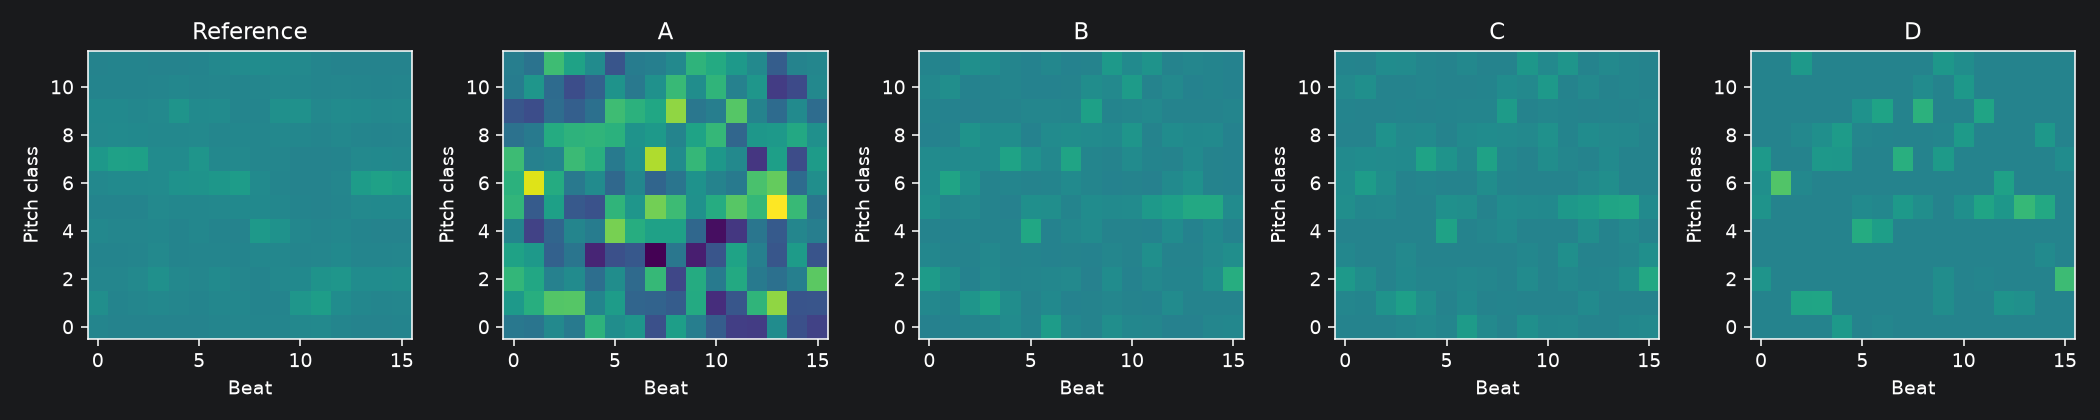
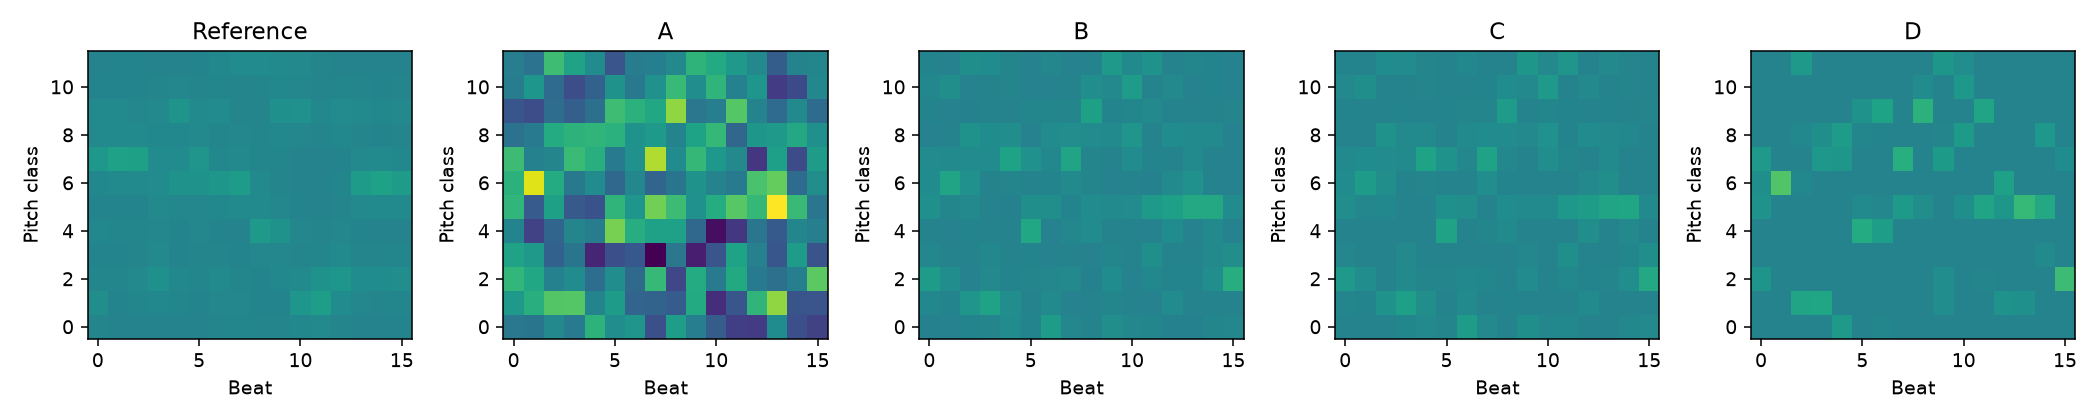
Run chroma experiment and record task B results

diff --git a/src/model.py b/src/model.py
@@ -1,4 +1,4 @@
-"""Member B: Problem 1 MLP/linear flow matching adapted from 3 to 192 dimensions."""
+"""Flow matching for 16-beat chroma sequences."""
 import torch
 from torch import nn
 from .constraints import correct_step, project_simplex

diff --git a/PERSON_B_HANDOFF.md b/PERSON_B_HANDOFF.md
@@ -1,0 +1,110 @@
+# Task B notes
+
+The model was trained on the arrays prepared in task A. The preprocessing code
+and data files are unchanged.
+
+## Files
+
+Task B covers:
+
+- `src/model.py`: the 192-dimensional velocity network, Flow Matching training,
+  and Euler sampling.
+- Training and A/B/C/D sampling in `problem2.ipynb`.
+- The local model checkpoint and generated sample archive.
+
+Inputs:
+
+- `data/problem2/processed/train.npy`: `(1129, 16, 12)`, `float32`.
+- `data/problem2/processed/test.npy`: `(297, 16, 12)`, `float32`.
+- `data/problem2/processed/manifest.json` and the source records from task A.
+- `src/constraints.py` and `src/evaluation.py`, which are owned by Person C.
+
+`scripts/check_setup.py` checked the hashes in the manifest, the official split,
+array shapes, finite values, non-negativity, and per-beat sums. Training uses
+these cached arrays, so there is no need to download or process audio again.
+
+## Training
+
+Each `(16, 12)` sample is flattened to 192 values. The network takes those values
+and time `t` as input. It has three hidden layers of 128 units with SiLU
+activations and predicts a 192-dimensional velocity.
+
+For every training step:
+
+1. Draw `x0 ~ N(0, I)` and a real sample `x1`.
+2. Draw `t ~ Uniform(0, 1)`.
+3. Form the linear interpolation `xt = (1 - t) * x0 + t * x1`.
+4. Train the network to predict the target velocity `x1 - x0` with mean squared
+   error.
+
+The run used seed 42, 3000 steps, batch size 256, Adam with learning rate
+`1e-3`, and CPU execution. The first loss was 1.02014 and the final loss was
+0.55413; the mean of the first 100 losses was 0.94815 and the mean of the last
+100 was 0.57230. Repeating training with the same configuration reproduced the
+saved checkpoint exactly.
+
+## Sampling
+
+All four methods use the same trained model, the same 297 initial Gaussian
+noise tensors, and 100 Euler steps. The initial noise is not projected.
+
+- A: Euler update only; no constraint correction.
+- B: after every Euler update, apply
+  `x <- x + 0.1 * (project_simplex(x) - x)`.
+- C: after every Euler update, fully project each 12-dimensional beat onto the
+  probability simplex.
+- D: run the same unconstrained trajectory as A, then project only the final
+  sample.
+
+The saved D samples equal `project_simplex(A)` within
+`1e-6`. C and D both have zero negative mass and 100% feasible beats and
+sequences within the `1e-5` evaluation tolerance.
+
+## Saved results
+
+- `models/problem2/flow.pt`: model state and training/sampling configuration.
+- `results/problem2/samples.npz`: reference data, reference indices, shared
+  initial noise, and A/B/C/D arrays. Every generated array has shape
+  `(297, 16, 12)` and contains only finite values.
+- `results/problem2/training.png`: Flow Matching loss curve.
+- `problem2.ipynb`: all cells ran with `SMOKE=False`; its final output is
+  `REAL_EXPERIMENT_OK`.
+
+Git ignores the checkpoint and `samples.npz`. Both files are saved locally.
+
+## Checks (2026-10-12)
+
+```text
+python scripts/check_setup.py
+    CHECKOUT_READY: data and model interfaces work without raw audio
+
+python -m unittest discover -s tests -v
+    Ran 4 tests - OK
+
+jupyter execute --inplace --timeout=-1 problem2.ipynb
+    completed successfully with REAL_EXPERIMENT_OK
+```
+
+The saved files were also checked:
+
+- All `reference`, `noise`, and A/B/C/D arrays are finite.
+- C and D satisfy the simplex constraint for every generated sequence.
+- D is the final projection of A.
+- A second deterministic training run produced exactly the saved weights.
+- Task A's `src/data.py`, processed arrays, manifest, and source records were
+  not modified.
+
+## Running again
+
+From the repository root, activate the project environment and run:
+
+```text
+python scripts/check_setup.py
+python -m unittest discover -s tests -v
+jupyter execute --inplace --timeout=-1 problem2.ipynb
+```
+
+Running all notebook cells retrains the model and overwrites the local
+checkpoint, samples, metrics, and figures. Keep
+`SMOKE=False` for the real experiment; `SMOKE=True` is only for synthetic code
+checks.
